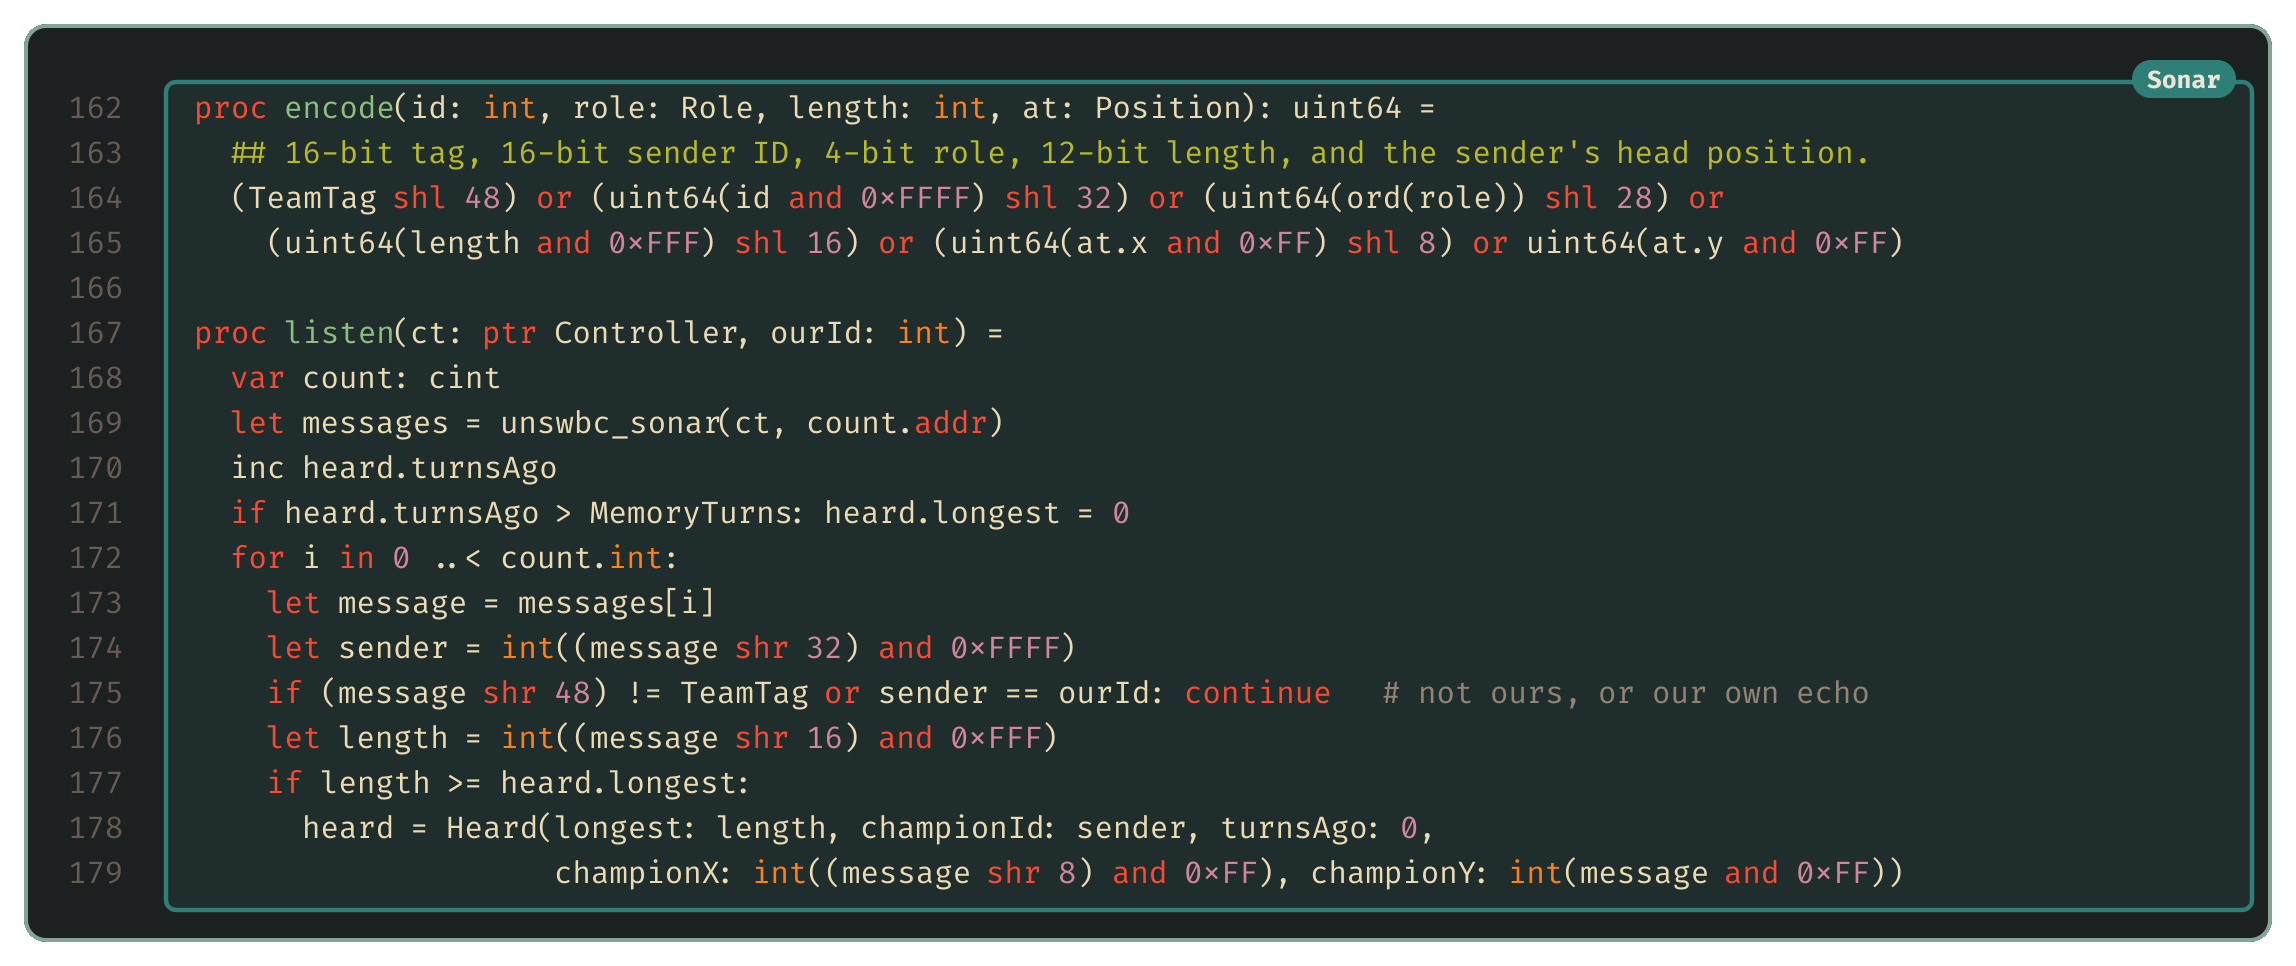
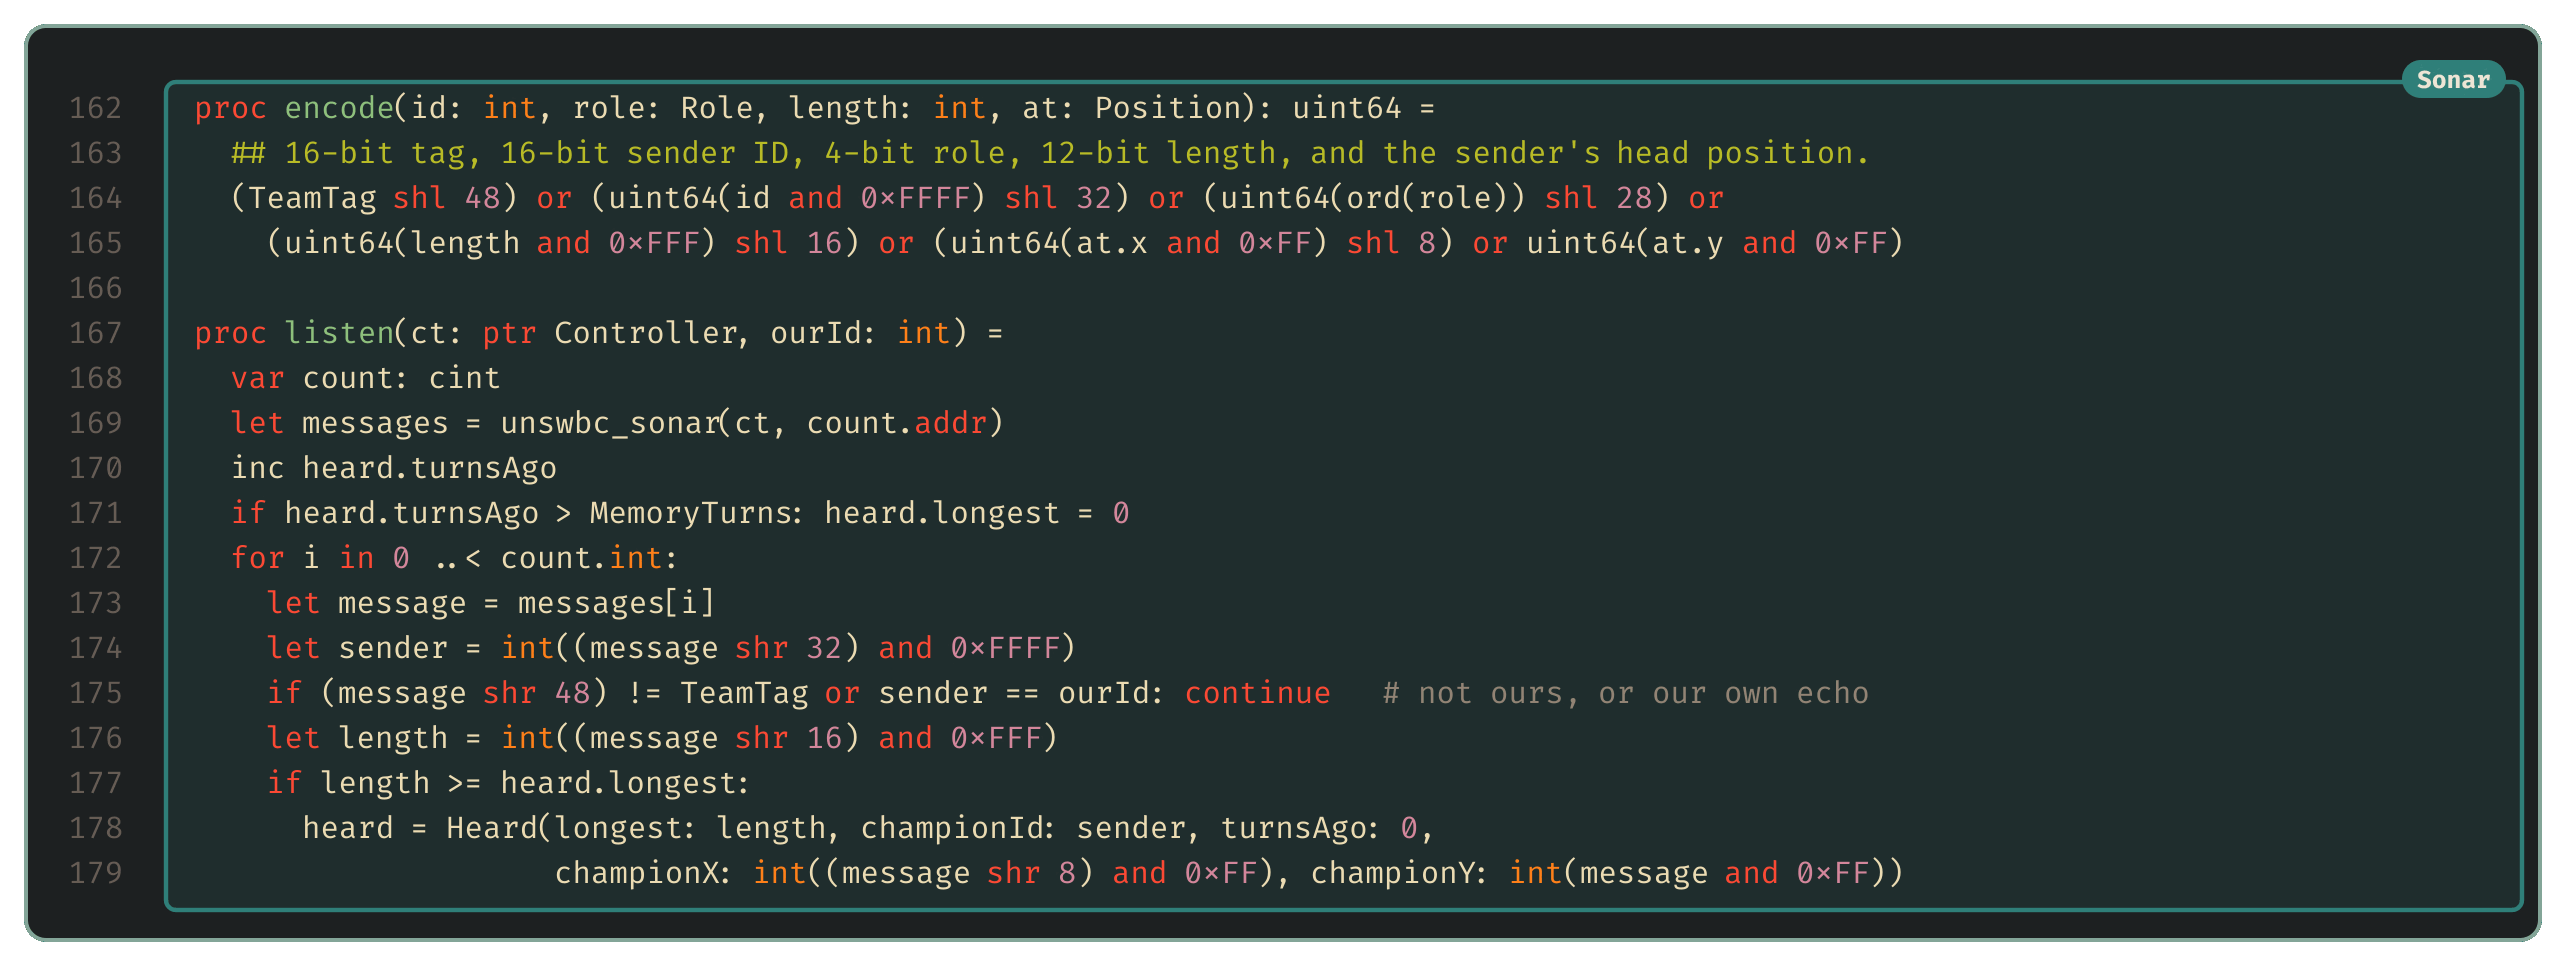
draw every code close-up at one width

Changed region(s): [[0.0, 0.0932, 0.804, 0.9317], [0.9277, 0.0621, 1.0, 0.9627]]

diff --git a/tools/code_map.py b/tools/code_map.py
@@ -278,14 +278,19 @@ def draw_map(bot, source_lines, styled):
 
 # ---- Close-ups: readable code with the same boxes -----------------------------------------
 
-def draw_close_up(close_up, source_lines, styled):
+def close_up_rows(close_up, source_lines):
     rows = []  # source line index, or None for a fold marker between blocks
     for index, piece in enumerate(close_up.blocks):
         first, last = piece.span(source_lines)
         if index:
             rows.append(None)
         rows.extend(range(first, last + 1))
-    columns = max(len(source_lines[line]) for line in rows if line is not None)
+    return rows
+
+
+def draw_close_up(close_up, source_lines, styled, columns):
+    """Every close-up is drawn `columns` wide, so code prints at the same size in every figure."""
+    rows = close_up_rows(close_up, source_lines)
     code_x = MARGIN + BORDER + PADDING + (GUTTER + 2) * CELL_WIDTH
     inner_width = (GUTTER + 2 + columns + 18) * CELL_WIDTH + 2 * PADDING
     inner_height = len(rows) * LINE_HEIGHT + 2 * PADDING + 10
@@ -345,13 +350,16 @@ def write_png(svg, path):
 
 def main():
     output = Path(sys.argv[1])
+    sources = {bot.name: (ROOT / "examples" / bot.name / "strategy.nim").read_text().split("\n") for bot in BOTS}
+    columns = max(len(sources[bot.name][line]) for bot in BOTS for close_up in bot.close_ups
+                  for line in close_up_rows(close_up, sources[bot.name]) if line is not None)
     for bot in BOTS:
         source = (ROOT / "examples" / bot.name / "strategy.nim").read_text()
         source_lines = source.split("\n")
         styled = styled_lines(source)
         (output / f"{bot.name}-code-map.svg").write_text(draw_map(bot, source_lines, styled))
         for close_up in bot.close_ups:
-            write_png(draw_close_up(close_up, source_lines, styled), output / f"{bot.name}-code-{close_up.name}.png")
+            write_png(draw_close_up(close_up, source_lines, styled, columns), output / f"{bot.name}-code-{close_up.name}.png")
 
 
 if __name__ == "__main__":
